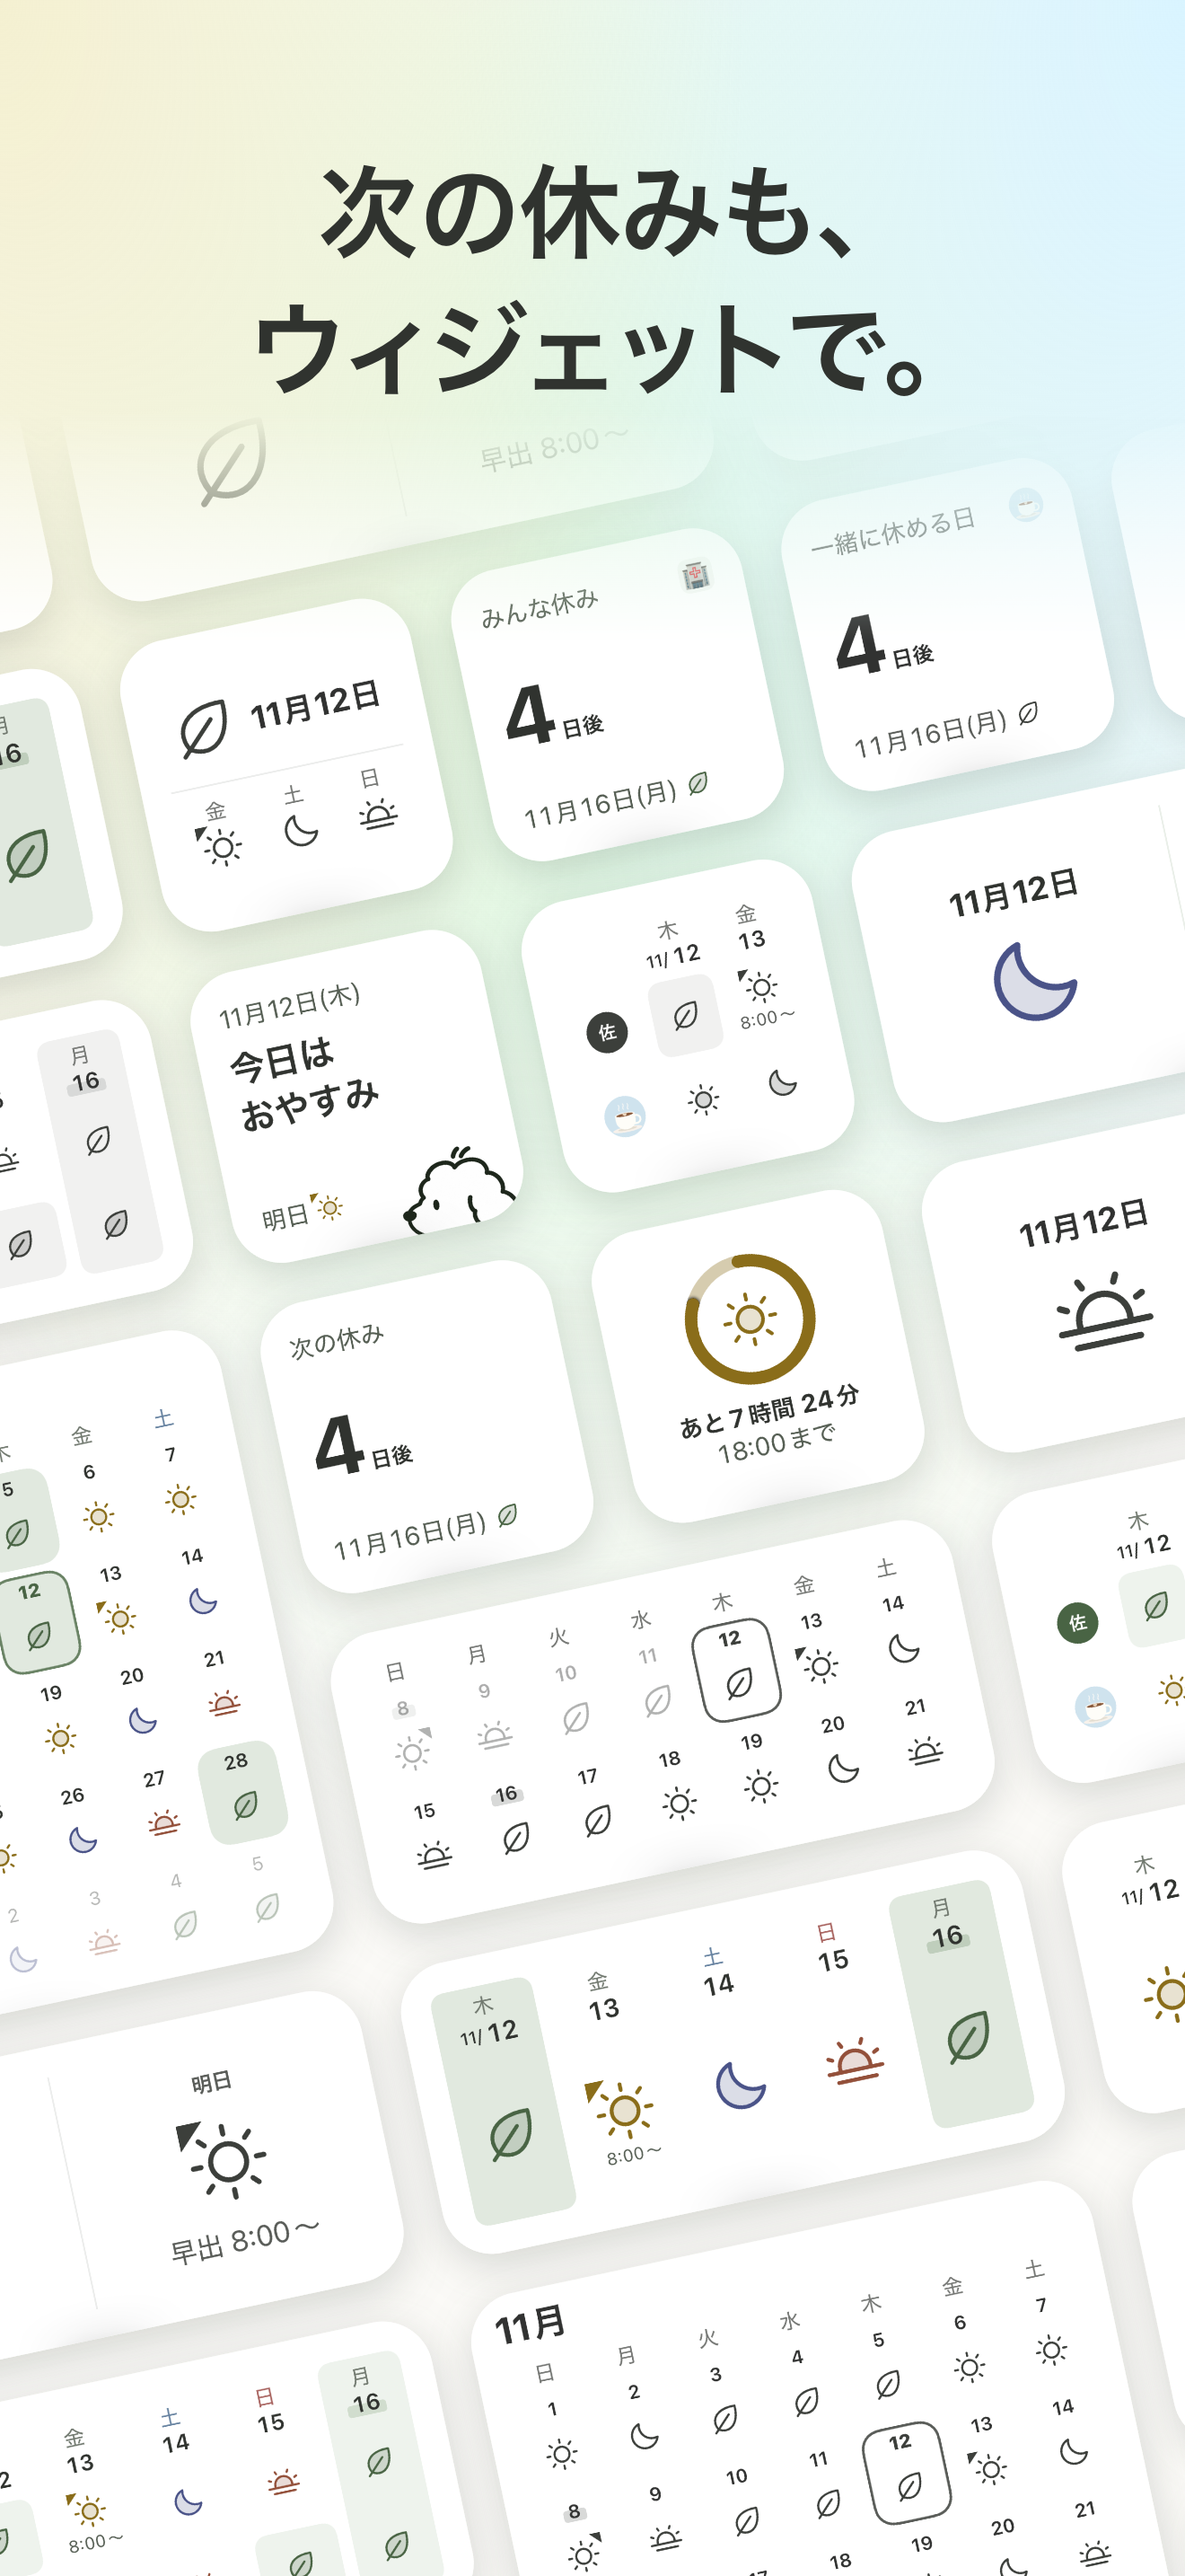
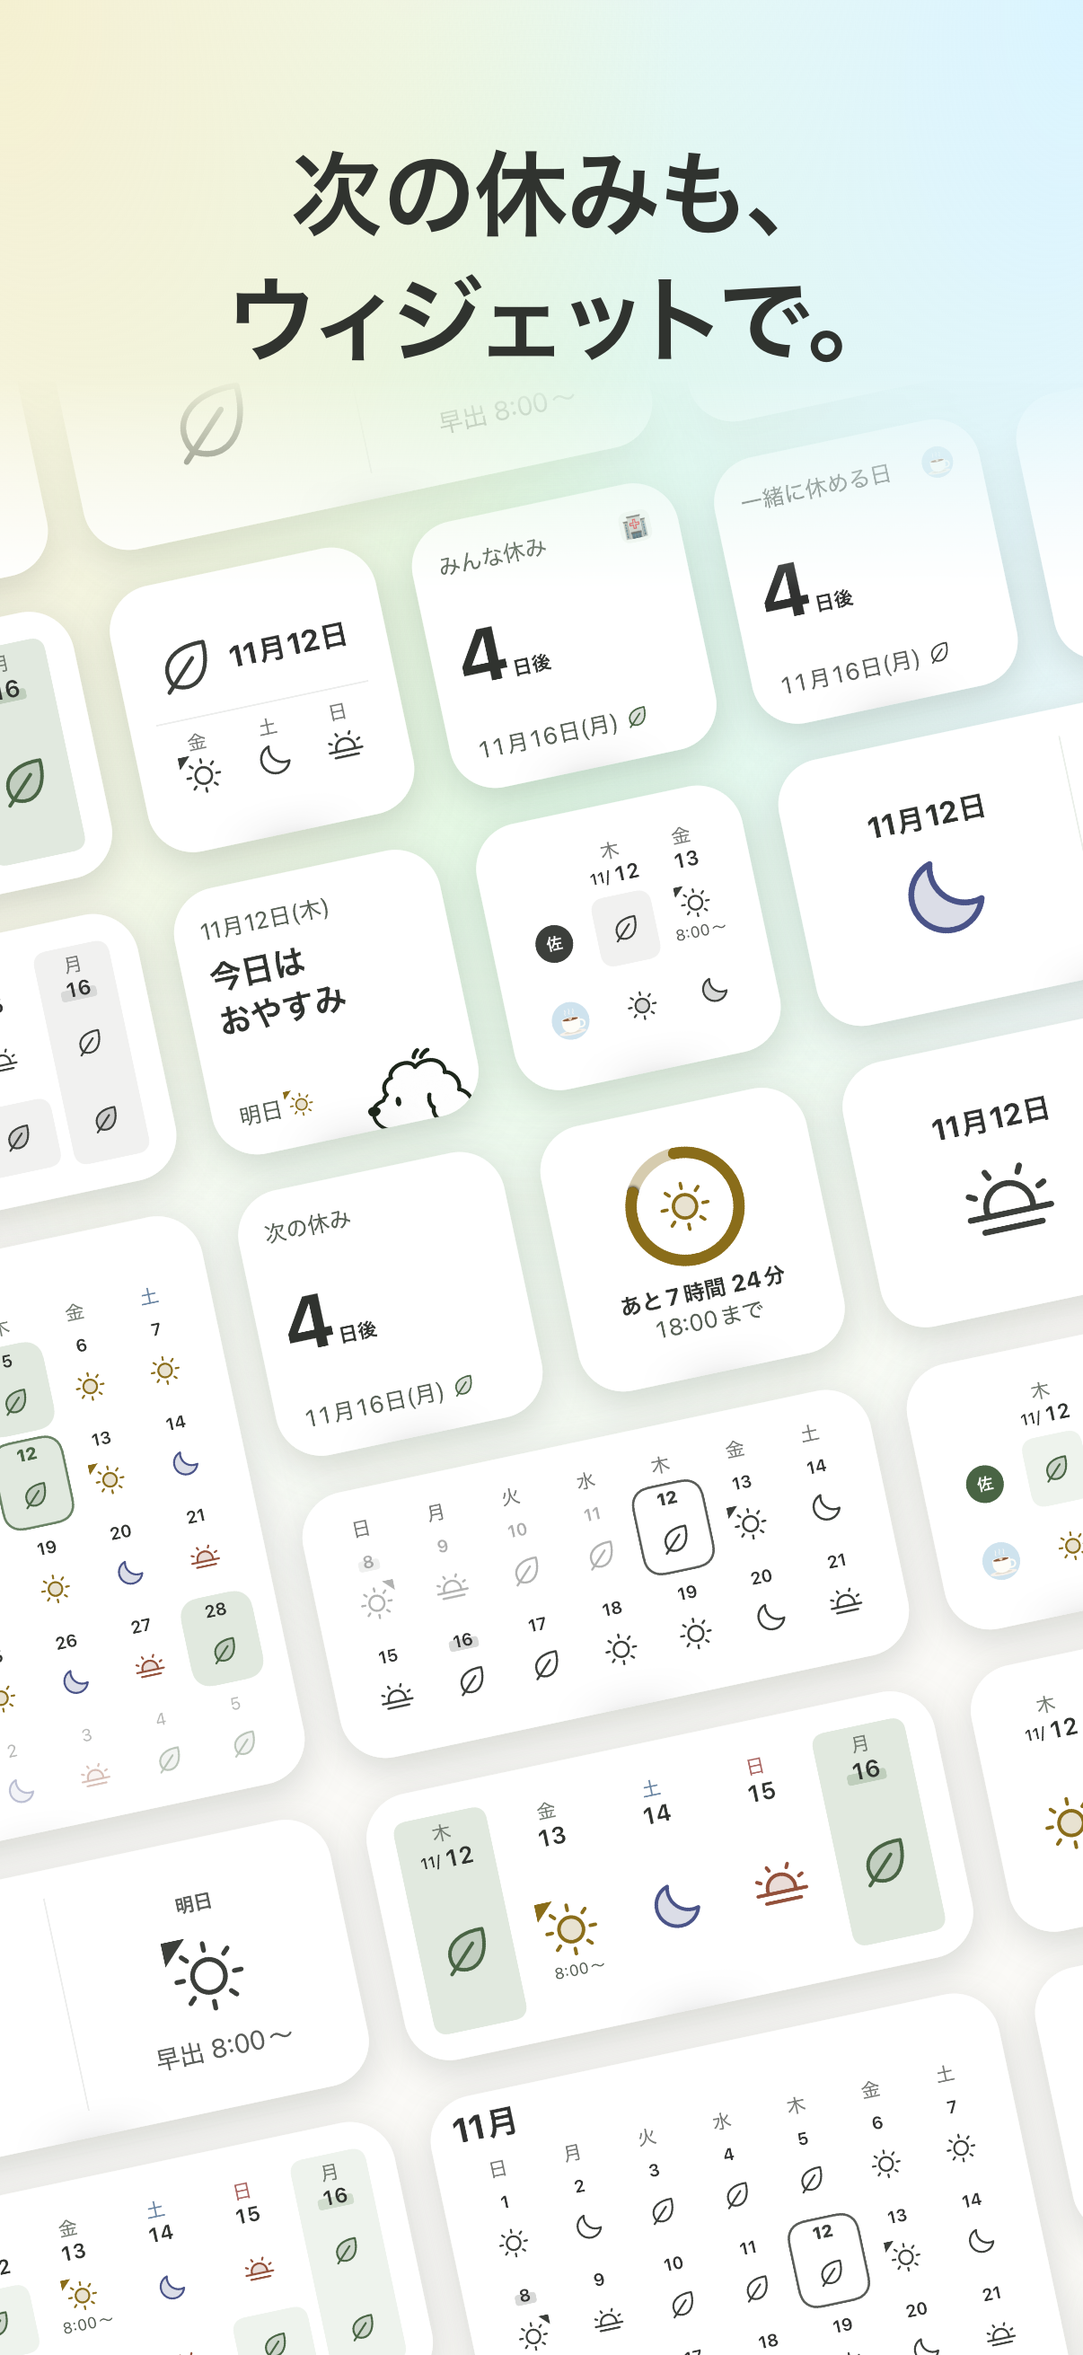
Store pictures: the App Store's at the size its version's page requires, an iPhone's medium display, 1206 by 2622 (#806)

diff --git a/packages/prototype/src/lib/store-shots.ts b/packages/prototype/src/lib/store-shots.ts
@@ -8,9 +8,10 @@ import type { PresetShift } from "./design-patterns";
 // apps/design's /_render/store-shot, which `pnpm --dir apps/design
 // image:store` photographs into `store/screenshots/<store>`.
 
-// A phone screenshot's size in each store. The App Store's is the largest
-// it takes for an iPhone with Dynamic Island (large display), an iPhone
-// Pro Max's own screen, which it scales down for the smaller iPhones:
+// A phone screenshot's size in each store. The App Store's is the one
+// App Store Connect requires on a version's page, for an iPhone with
+// Dynamic Island (medium display, 6.3 inches), as tall for its width as
+// the Pro Max's screen the capture photographs:
 // https://developer.apple.com/help/app-store-connect/reference/app-information/screenshot-specifications
 // Google Play's is the 9:16 it asks of the pictures it features, no side
 // more than twice the other:
@@ -19,7 +20,7 @@ import type { PresetShift } from "./design-patterns";
 // platform's small widget (Android's SMALL, WidgetParts.kt).
 export const STORES = {
   android: { height: 1920, widgetRow: 202 / 179, width: 1080 },
-  ios: { height: 2868, widgetRow: 1, width: 1320 },
+  ios: { height: 2622, widgetRow: 1, width: 1206 },
 } as const;
 
 export type StoreId = keyof typeof STORES;

diff --git a/apps/design/tests/store-screenshots.test.ts b/apps/design/tests/store-screenshots.test.ts
@@ -33,8 +33,9 @@ import { unsaid } from "./store-words";
 // The stores' pictures are checked in, drawn by
 // `mise run store:screenshots`. What each store asks of them, from its
 // own page, once:
-// - the App Store's screenshots of an iPhone with a 6.9-inch display,
-//   1320 by 2868, with no alpha channel:
+// - the App Store's screenshots of an iPhone with Dynamic Island (medium
+//   display, 6.3 inches), the ones App Store Connect requires on a
+//   version's page, 1206 by 2622, with no alpha channel:
 //   https://developer.apple.com/help/app-store-connect/reference/app-information/screenshot-specifications
 // - its product page header, 3840 by 1646, with none either:
 //   https://developer.apple.com/help/app-store-connect/reference/app-information/creative-assets-specifications
@@ -44,7 +45,7 @@ import { unsaid } from "./store-words";
 //   of the picture, eight at most:
 //   https://support.google.com/googleplay/android-developer/answer/9866151
 const ASKED = {
-  appStoreScreenshot: { height: 2868, width: 1320 },
+  appStoreScreenshot: { height: 2622, width: 1206 },
   featureGraphic: { height: 500, width: 1024 },
   headlineShare: 0.2,
   productPageHeader: { height: 1646, width: 3840 },

diff --git a/store/README.md b/store/README.md
@@ -22,7 +22,7 @@ The pages the forms ask for are the site's: サポート `https://pochical.app/s
 
 | File | App Store Connect | Play Console |
 | --- | --- | --- |
-| `screenshots/ios/01-entry.png` … `08-cares.png` | iPhone 6.9インチのスクリーンショット (1320×2868) |  |
+| `screenshots/ios/01-entry.png` … `08-cares.png` | Dynamic Island搭載iPhone（中型ディスプレイ、6.3インチ）のスクリーンショット (1206×2622)、必須条件 |  |
 | `screenshots/android/01-entry.png` … `08-cares.png` |  | スマートフォンのスクリーンショット (1080×1920) |
 | `feature-graphic.png` |  | フィーチャー グラフィック (1024×500) |
 | `product-page-header.png` | プロダクトページのヘッダー (3840×1646), with the other creative assets of the version's page |  |
